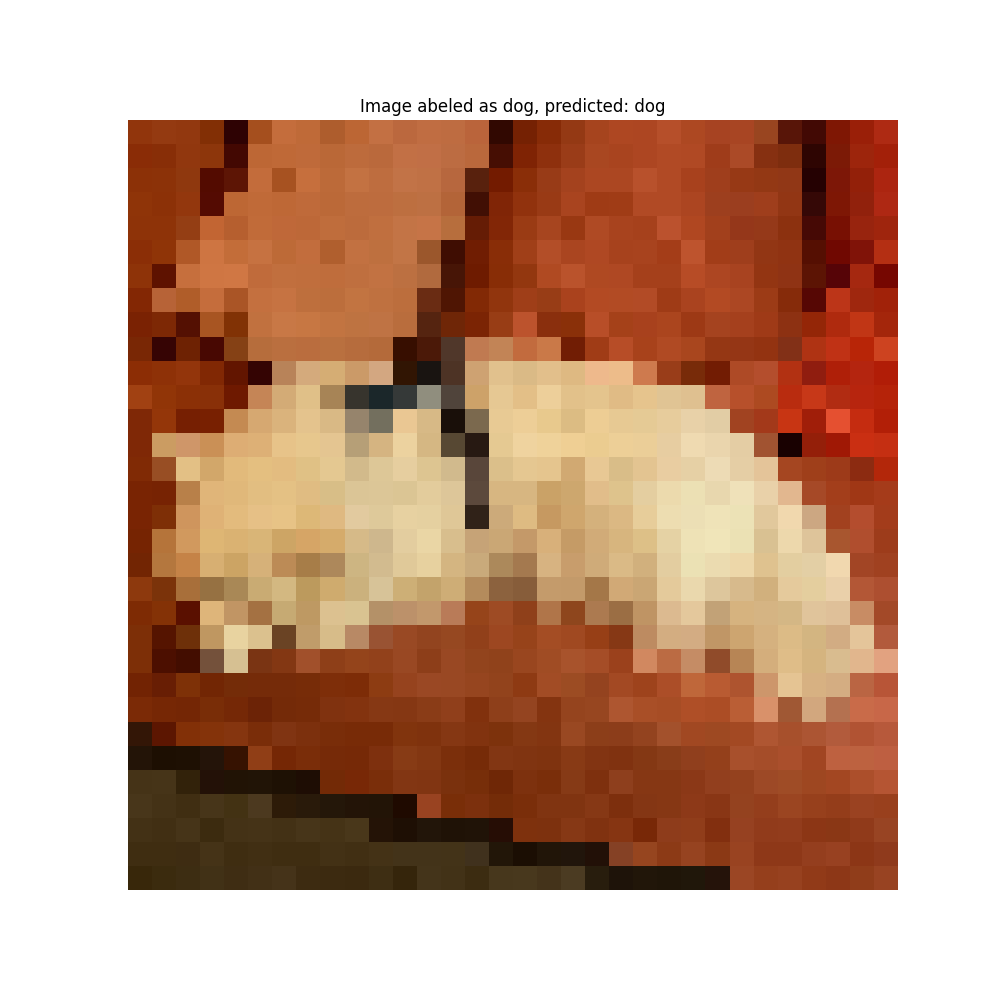
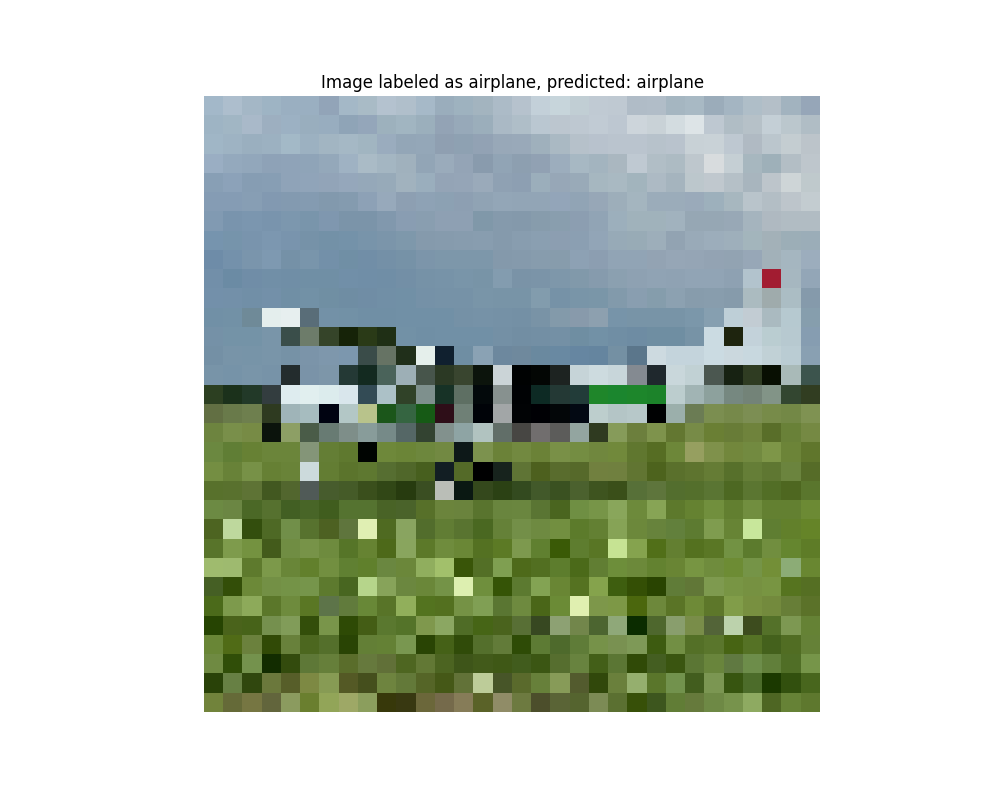
imprved readme

diff --git a/keras_predict_cifar.py b/keras_predict_cifar.py
@@ -11,9 +11,9 @@ from tensorflow.keras.preprocessing import image
 model = load_model("cifar10_cnn_model.h5")
 
 # Load and preprocess the input image
-img_path = "images/cafe-dog.png"  # Replace with the path to your image
-img_label = "dog"
-img = image.load_img(img_path, target_size=(32, 32))
+# input_img = ["images/cafe-dog.png", "dog"]  # Replace with the path to your image & label
+input_img = ["images/skydive-plane.png", "airplane"]
+img = image.load_img(input_img[0], target_size=(32, 32))
 
 # Convert image to numpy array and preprocess
 img_array = image.img_to_array(img)
@@ -40,8 +40,8 @@ label_names = [
 predicted_label = label_names[predicted_class]
 
 # Plot the image pixels
-plt.figure(figsize=(10, 10))
+plt.figure(figsize=(10, 8))
 plt.imshow(img)
 plt.axis("off")
-plt.title(f"Image abeled as {img_label}, predicted: {predicted_label}")
+plt.title(f"Image labeled as {input_img[1]}, predicted: {predicted_label}")
 plt.show()

diff --git a/CIFAR10README.md b/CIFAR10README.md
@@ -18,5 +18,5 @@ the above plot is generated with [cifar_visualization.py](cifar_visualization.py
 [keras_predict_cifar.py](keras_predict_cifar.py)
 
 - takes in a normal image and predicts it using the prior trained model
-  ![dog input](images/cafe-dog.png)
+  ![prediction input](images/skydive-airplanskydive-airplanee.png)
   ![model prediction](images/cifar_pred.png)
